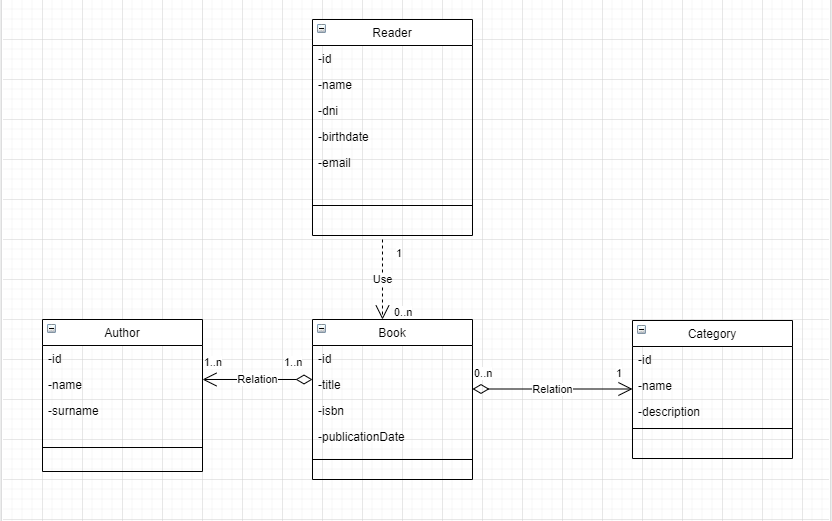
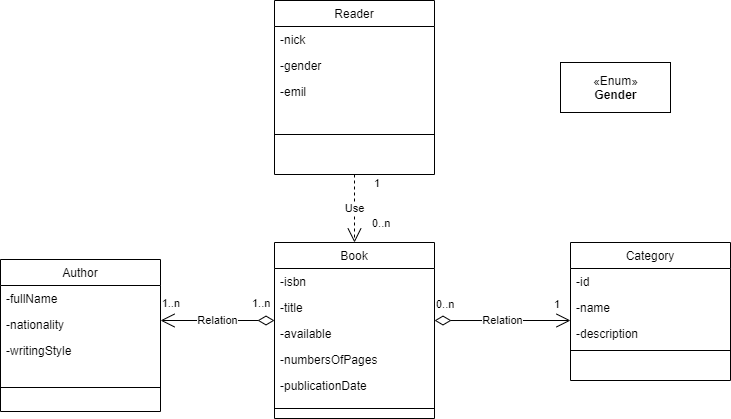
enhancement #30

diff --git a/src/main/java/es/upm/miw/apaw_practice/domain/models/library/Book.java b/src/main/java/es/upm/miw/apaw_practice/domain/models/library/Book.java
@@ -1,36 +1,23 @@
 package es.upm.miw.apaw_practice.domain.models.library;
 
-import java.util.Date;
+import java.time.LocalDate;
 import java.util.List;
 
 public class Book {
-
-    private Long id;
-    private String title;
     private String isbn;
-    private Date publication;
-    private List<Author> authors;
+    private String title;
+    private Boolean available;
+    private Integer numbersOfPages;
+    private LocalDate publicationDate;
     private Category category;
+    private List<Author> authors;
 
-    public Book(Long id, String title, String isbn, Date publication, List<Author> authors, Category category) {
-        this.id = id;
-        this.title = title;
-        this.isbn = isbn;
-        this.publication = publication;
-        this.authors = authors;
-        this.category = category;
+    public Book() {
+        // empty for framework
     }
 
-    public Long getId() {
-        return id;
-    }
-
-    public String getTitle() {
-        return title;
-    }
-
-    public void setTitle(String title) {
-        this.title = title;
+    public static BookBuilders.Isbn builder() {
+        return new Builder();
     }
 
     public String getIsbn() {
@@ -41,12 +28,44 @@ public class Book {
         this.isbn = isbn;
     }
 
-    public Date getPublication() {
-        return publication;
+    public String getTitle() {
+        return title;
     }
 
-    public void setPublication(Date publication) {
-        this.publication = publication;
+    public void setTitle(String title) {
+        this.title = title;
+    }
+
+    public Boolean isAvailable() {
+        return available;
+    }
+
+    public void setAvailable(Boolean available) {
+        this.available = available;
+    }
+
+    public Integer getNumbersOfPages() {
+        return numbersOfPages;
+    }
+
+    public void setNumbersOfPages(Integer numbersOfPages) {
+        this.numbersOfPages = numbersOfPages;
+    }
+
+    public LocalDate getPublicationDate() {
+        return publicationDate;
+    }
+
+    public void setPublicationDate(LocalDate publicationDate) {
+        this.publicationDate = publicationDate;
+    }
+
+    public Category getCategory() {
+        return category;
+    }
+
+    public void setCategory(Category category) {
+        this.category = category;
     }
 
     public List<Author> getAuthors() {
@@ -55,5 +74,60 @@ public class Book {
 
     public void setAuthors(List<Author> authors) {
         this.authors = authors;
+    }
+
+    public static class Builder implements BookBuilders.Isbn, BookBuilders.Title, BookBuilders.Available, BookBuilders.NumbersOfPages, BookBuilders.PublicationDate, BookBuilders.Category, BookBuilders.Authors {
+        private final Book book;
+
+        public Builder() {
+            this.book = new Book();
+        }
+
+        @Override
+        public BookBuilders.Title isbn(String isbn) {
+            this.book.isbn = isbn;
+            return this;
+        }
+
+        @Override
+        public BookBuilders.Available title(String title) {
+            this.book.title = title;
+            return this;
+        }
+
+        @Override
+        public BookBuilders.NumbersOfPages available(Boolean available) {
+            this.book.available = available;
+            return this;
+        }
+
+        @Override
+        public BookBuilders.PublicationDate numbersOfPages(Integer numbersOfPages) {
+            this.book.numbersOfPages = numbersOfPages;
+            return this;
+        }
+
+        @Override
+        public BookBuilders.Category publicationDate(LocalDate publicationDate) {
+            this.book.publicationDate = publicationDate;
+            return this;
+        }
+
+        @Override
+        public BookBuilders.Authors category(BookBuilders.Category category) {
+            this.book.category = (Category) category;
+            return this;
+        }
+
+        @Override
+        public BookBuilders.Authors authors(Author author) {
+            this.book.authors.add(author);
+            return this;
+        }
+
+        @Override
+        public Book build() {
+            return null;
+        }
     }
 }

diff --git a/src/main/java/es/upm/miw/apaw_practice/domain/models/library/Reader.java b/src/main/java/es/upm/miw/apaw_practice/domain/models/library/Reader.java
@@ -1,55 +1,37 @@
 package es.upm.miw.apaw_practice.domain.models.library;
 
-import java.util.ArrayList;
-import java.util.Date;
 import java.util.List;
 
 public class Reader {
-    private Long id;
-    private String name;
-    private String dni;
-    private Date birthDate;
+    private String nick;
+    private Gender gender;
     private String email;
     private List<Book> books;
 
-    public Reader(Long id, String name, String dni, Date birthDate, String email) {
-        this.id = id;
-        this.name = name;
-        this.dni = dni;
-        this.birthDate = birthDate;
+    public Reader() {
+        // empty for framework
+    }
+
+    public Reader(String nick, Gender gender, String email) {
+        this.nick = nick;
+        this.gender = gender;
         this.email = email;
     }
 
-    public Long getId() {
-        return id;
+    public String getNick() {
+        return nick;
     }
 
-    public void setId(Long id) {
-        this.id = id;
+    public void setNick(String nick) {
+        this.nick = nick;
     }
 
-    public String getName() {
-        return name;
+    public Gender getGender() {
+        return gender;
     }
 
-    public void setName(String name) {
-        this.name = name;
-    }
-
-    public String getDni() {
-        return dni;
-    }
-
-    public void setDni(String dni) {
-        this.dni = dni;
-    }
-
-    public Date getBirthDate() {
-        return birthDate;
-    }
-
-    public void setBirthDate(Date birthDate) {
-        this.birthDate = birthDate;
+    public void setGender(Gender gender) {
+        this.gender = gender;
     }
 
     public String getEmail() {
@@ -68,3 +50,4 @@ public class Reader {
         this.books = books;
     }
 }
+

diff --git a/src/main/java/es/upm/miw/apaw_practice/domain/models/library/Author.java b/src/main/java/es/upm/miw/apaw_practice/domain/models/library/Author.java
@@ -1,37 +1,37 @@
 package es.upm.miw.apaw_practice.domain.models.library;
 
 public class Author {
-    private Long id;
-    private String name;
-    private String surname;
+    private String fullName;
+    private String nationality;
+    private String writingStyle;
 
-    public Author(Long id, String name, String surname) {
-        this.id = id;
-        this.name = name;
-        this.surname = surname;
+    public Author(String fullName, String nationality, String writingStyle) {
+        this.fullName = fullName;
+        this.nationality = nationality;
+        this.writingStyle = writingStyle;
     }
 
-    public Long getId() {
-        return id;
+    public String getFullName() {
+        return fullName;
     }
 
-    public void setId(Long id) {
-        this.id = id;
+    public void setFullName(String fullName) {
+        this.fullName = fullName;
     }
 
-    public String getName() {
-        return name;
+    public String getNationality() {
+        return nationality;
     }
 
-    public void setName(String name) {
-        this.name = name;
+    public void setNationality(String nationality) {
+        this.nationality = nationality;
     }
 
-    public String getSurname() {
-        return surname;
+    public String getWritingStyle() {
+        return writingStyle;
     }
 
-    public void setSurname(String surname) {
-        this.surname = surname;
+    public void setWritingStyle(String writingStyle) {
+        this.writingStyle = writingStyle;
     }
 }

diff --git a/src/main/java/es/upm/miw/apaw_practice/domain/models/library/BookBuilders.java b/src/main/java/es/upm/miw/apaw_practice/domain/models/library/BookBuilders.java
@@ -1,0 +1,35 @@
+package es.upm.miw.apaw_practice.domain.models.library;
+
+import java.time.LocalDate;
+
+public interface BookBuilders {
+    interface Isbn {
+        Title isbn(String isbn);
+    }
+
+    interface Title {
+        Available title(String title);
+    }
+
+    interface Available {
+        NumbersOfPages available(Boolean available);
+    }
+
+    interface NumbersOfPages {
+        PublicationDate numbersOfPages(Integer numbersOfPages);
+    }
+
+    interface PublicationDate {
+        Category publicationDate(LocalDate publicationDate);
+    }
+
+    interface Category {
+        Authors category(Category category);
+    }
+
+    interface Authors {
+        Authors authors(Author author);
+        Book build();
+    }
+
+}

diff --git a/src/main/java/es/upm/miw/apaw_practice/domain/models/library/Gender.java b/src/main/java/es/upm/miw/apaw_practice/domain/models/library/Gender.java
@@ -1,0 +1,23 @@
+package es.upm.miw.apaw_practice.domain.models.library;
+
+public enum Gender {
+
+    M("Male"), F("Female");
+
+    private String gender;
+
+    Gender(String gender) {
+        this.gender = gender;
+    }
+
+    public String get() {
+        return gender;
+    }
+
+    @Override
+    public String toString() {
+        return "Gender{" +
+                "gender='" + gender + '\'' +
+                '}';
+    }
+}

diff --git a/src/main/java/es/upm/miw/apaw_practice/domain/models/library/Category.java b/src/main/java/es/upm/miw/apaw_practice/domain/models/library/Category.java
@@ -5,6 +5,10 @@ public class Category {
     private String name;
     private String description;
 
+    public Category() {
+        // empty for framework
+    }
+
     public Category(Long id, String name, String description) {
         this.id = id;
         this.name = name;
